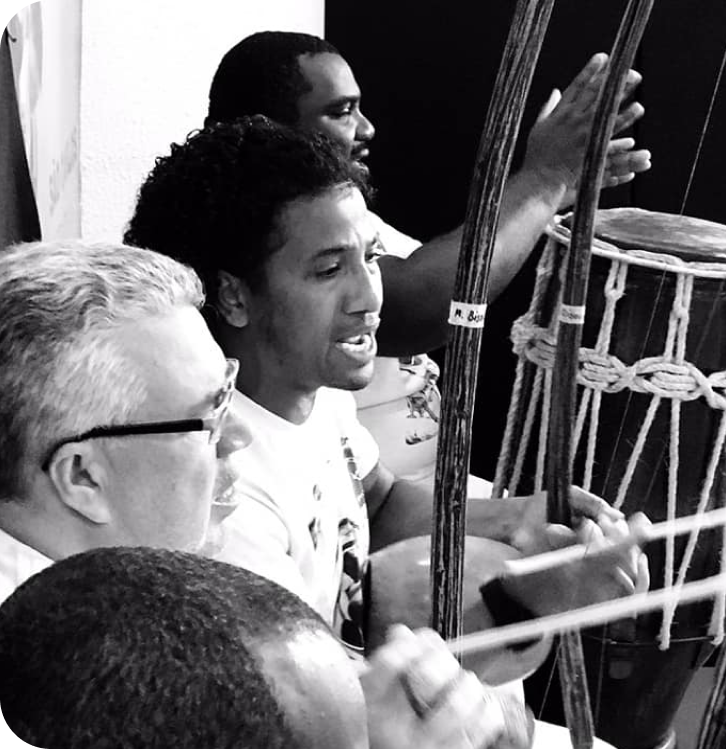
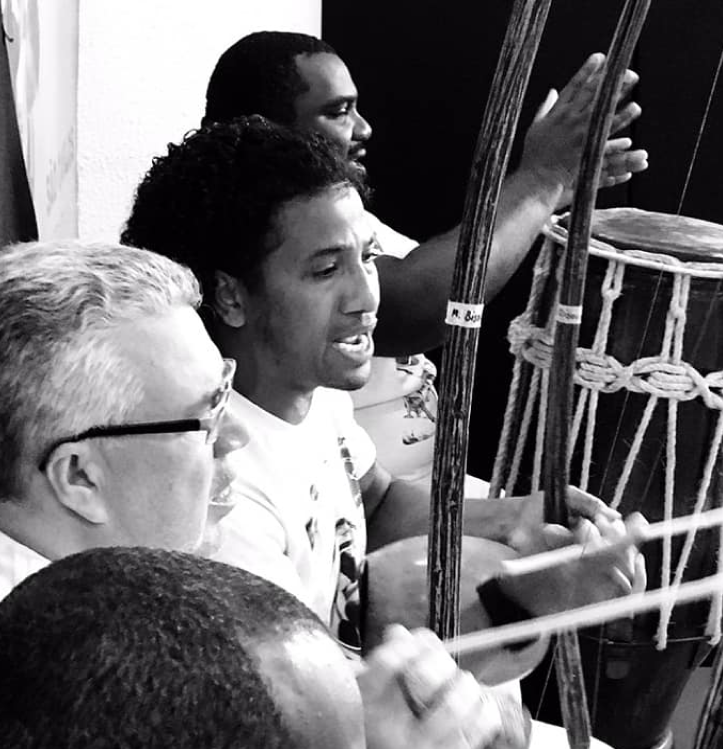
ajustes

diff --git a/index.html b/index.html
@@ -78,28 +78,12 @@
       });
     </script>
 
-    <!--Titulo-->
-    <section>
-      <div class="uk-flex uk-flex-center uk-margin-large-top">
-        <div>
-          <img src="img/home/berimbau.svg" alt="berimbau" />
-        </div>
-        <div class="uk-text-center@s">
-          <h2 class="font-akaya">Centro Cultural de Capoeira Ventre Livre</h2>
-          <h4 class="font-akaya">Presidente: Mestre Batata</h4>
-        </div>
-        <div>
-          <img src="img/home/berimbau esq.svg" alt="berimbau" />
-        </div>
-      </div>
-    </section>
-
+    
     <!--////////// Header ///////////-->
     <header
       class="uk-position-relative uk-visible-toggle uk-light"
       tabindex="-1"
-      uk-slideshow="animation: push; autoplay: true; min-height: 600; max-height: 1000"
-    >
+      uk-slideshow="animation: push; autoplay: true; min-height: 600; max-height: 1000"    >
       <ul class="uk-slideshow-items">
         <li>
           <div class="uk-flex">
@@ -146,6 +130,7 @@
           </div>
         </li>
       </ul>
+
       <!--//-->
       <div class="slider-btn">
         <a class="previous" href="#" uk-slidenav-previous uk-slideshow-item="previous"></a>
@@ -153,6 +138,24 @@
         <a class="previous" href="#" uk-slidenav-next uk-slideshow-item="next"></a>
     </div>
     </header>
+
+    <!--Titulo-->
+    <section>
+      <div class="uk-flex uk-flex-center uk-margin-large-top">
+        <div>
+          <img src="img/home/bandeira-do-brasil-og 1.svg" alt="berimbau" />
+          <img src="img/home/berimbau.svg" alt="berimbau" />          
+        </div>
+        <div class="uk-text-center@s">
+          <h2 class="font-akaya">Centro Cultural de Capoeira Ventre Livre</h2>
+          <h4 class="font-akaya">Presidente: Mestre Batata</h4>
+        </div>
+        <div>
+          <img src="img/home/berimbau esq.svg" alt="berimbau" />
+          <img src="img/home/bandeira-do-brasil-og 1.svg" alt="berimbau" />
+        </div>
+      </div>
+    </section>
 
     <!--///////// Há 24 anos //////////-->
     <section>

diff --git a/css/style.css b/css/style.css
@@ -365,7 +365,6 @@ h4 {
 .slider-black {
     background: black;
     padding: 150px;
-    border-radius: 0 75px 75px 0;
 }
 
 .slider-black h1 {
@@ -390,7 +389,7 @@ h4 {
 }
 
 .slider-img {
-    border-radius: 75px 0px 0px 75px;
+    border-radius: 0px 0px 0px 0px;
     background-attachment: fixed;
     background-size: cover !important;
     background-repeat: no-repeat;
@@ -399,19 +398,19 @@ h4 {
 }
 
 .slider-1 {
-    background: linear-gradient(rgba(227, 9, 9, 0.25), rgba(227, 9, 9, 0.25)), url(/img/header/img1.jpg) no-repeat;
+    background: linear-gradient(rgba(227, 9, 9, 0.16), rgba(227, 9, 9, 0.25)), url(/img/header/img1.jpg) no-repeat;
 }
 
 .slider-2 {
-    background: linear-gradient(rgba(227, 9, 9, 0.25), rgba(227, 9, 9, 0.25)), url(/img/header/img2.png) no-repeat;
+    background: linear-gradient(rgba(227, 9, 9, 0.16), rgba(227, 9, 9, 0.25)), url(/img/header/img2.png) no-repeat;
 }
 
 .slider-3 {
-    background: linear-gradient(rgba(227, 9, 9, 0.25), rgba(227, 9, 9, 0.25)), url(/img/header/img3.png) no-repeat;
+    background: linear-gradient(rgba(227, 9, 9, 0.16), rgba(227, 9, 9, 0.25)), url(/img/header/img3.png) no-repeat;
 }
 
 .slider-4 {
-    background: linear-gradient(rgba(227, 9, 9, 0.25), rgba(227, 9, 9, 0.25)), url(/img/header/img4.png) no-repeat;
+    background: linear-gradient(rgba(227, 9, 9, 0.16), rgba(227, 9, 9, 0.25)), url(/img/header/img4.png) no-repeat;
 }
 
 .slider-btn {
@@ -448,7 +447,7 @@ h4 {
         font-size: 55px;
         text-shadow: -3px -1px 1px #ec0023;
     }
-    
+
     .slider-black h3 {
         color: var(--red-light) !important;
         font-family: 'Abel', sans-serif !important;
@@ -456,7 +455,7 @@ h4 {
         text-transform: uppercase;
         font-size: 30px;
     }
-    
+
     .slider-black p {
         color: #ffffff;
         font-family: 'Abel', sans-serif !important;
